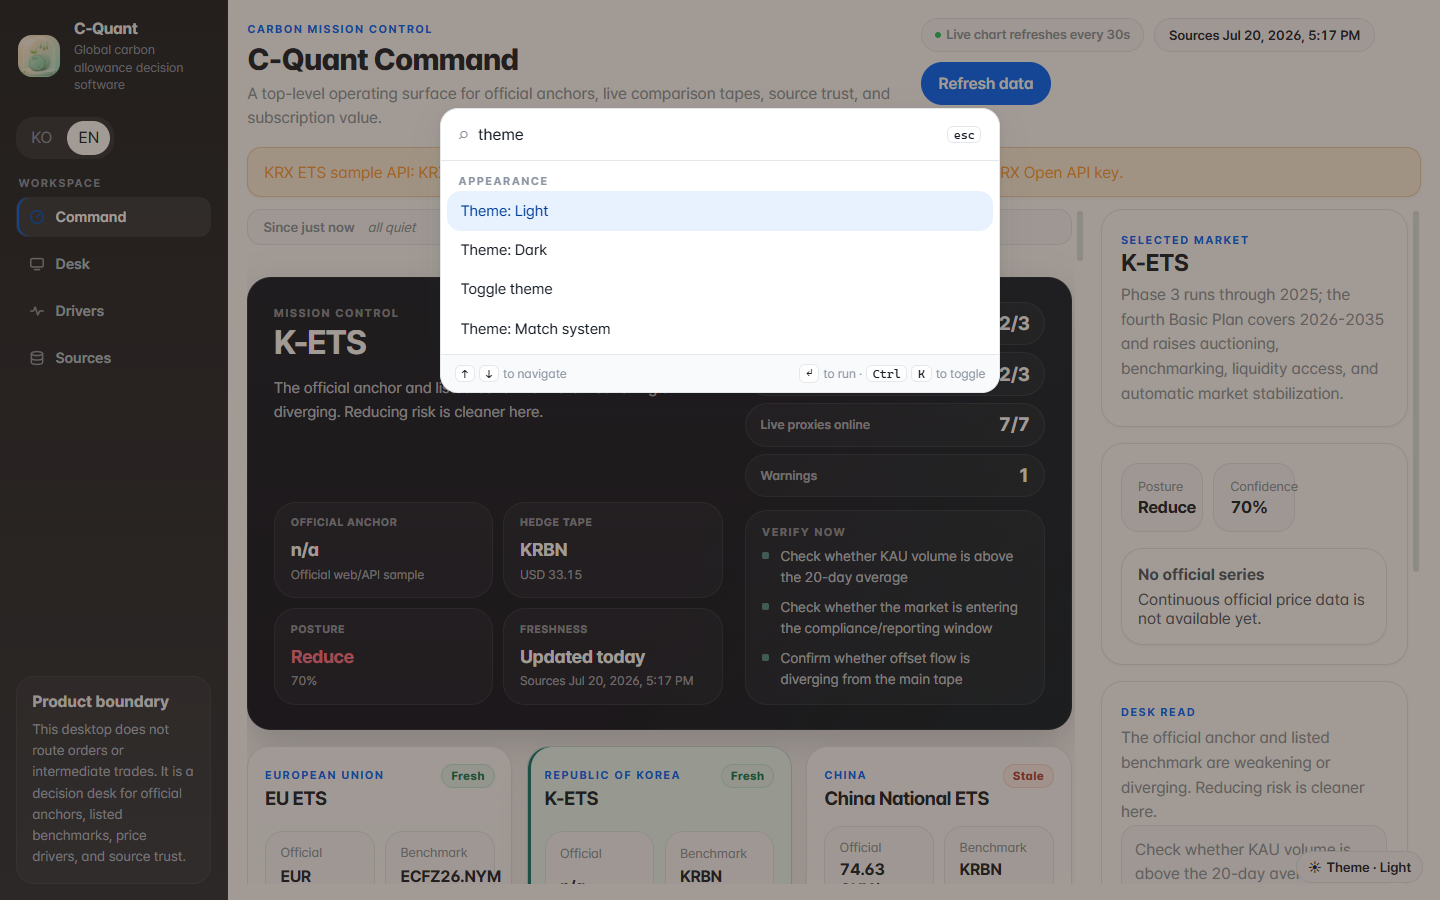
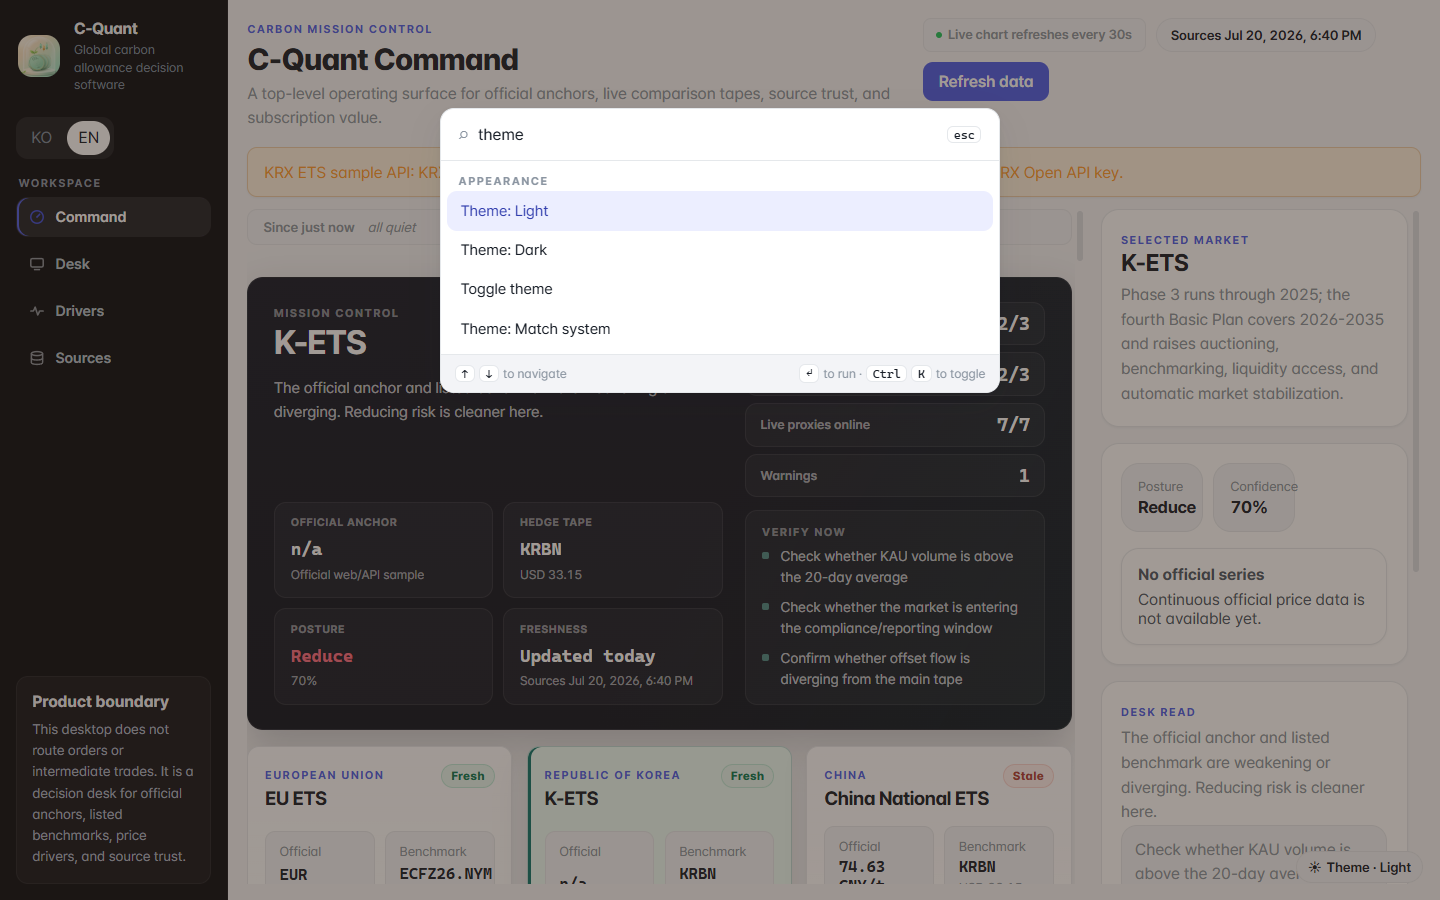
ui: dark-first identity — indigo accent, sharper geometry, mono figures
The previous pass refined the layout but kept the light-dominant look
and Toss-blue accent, so at a glance nothing changed. This one changes
the product's face while leaving the methodology untouched:

- Dark is the default theme for new installs (theme.tsx localStorage
  fallback + electron/appSettings.js DEFAULTS). Saved preferences are
  respected; light/system remain a toggle away.
- Accent: Toss blue -> indigo (#4f5ee8 light / #7c8cff dark), so the
  brand color no longer collides with buy-green / reduce-red
  semantics. Dark primary buttons use dark-ink text on the lighter
  accent (contrast fix, verified by pixel zoom).
- Geometry: radius tokens 10/14/18/22 -> 8/10/14/18; card radii
  22-28px -> 12-16px; buttons and chips pill -> rounded rect; rail
  flattened to a single surface with hairline border.
- Key figures set in the mono stack (hero stats, health tiles, market
  metrics); light canvas moved to soft gray (#f5f6f8).

No data, calibration, or decision-logic changes. Verified: type-check,
lint, format, 222+55 tests, ci:verify, build, bundle (CSS 51.4/80KB),
Playwright e2e, and light/dark/KO captures reviewed by screenshot.

diff --git a/src/styles.css b/src/styles.css
@@ -12,10 +12,10 @@
   --font-mono: "JetBrains Mono", "SF Mono", "Cascadia Mono", "Consolas", monospace;
 
   /* Toss canvas (light) — clinical white, near-zero tint */
-  --bg: #ffffff;
+  --bg: #f5f6f8;
   --panel: #ffffff;
-  --panel-muted: #f9fafb;
-  --panel-tint: #f2f4f6;
+  --panel-muted: #f3f4f7;
+  --panel-tint: #eceef2;
 
   /* Toss ink hierarchy — cool gray, high contrast */
   --text-strong: #191f28;
@@ -29,10 +29,10 @@
   --line-strong: #d1d6db;
 
   /* Toss signature blue */
-  --accent: #0064ff;
-  --accent-strong: #0050c7;
-  --accent-soft: #e8f2ff;
-  --accent-ink: #003e99;
+  --accent: #4f5ee8;
+  --accent-strong: #3f4ed8;
+  --accent-soft: #eceeff;
+  --accent-ink: #333fae;
 
   /* Semantic palette — Toss styling. Korean stock convention follows
      red = up, blue = down. We keep --green / --red as the legacy
@@ -45,8 +45,8 @@
   --yellow-soft: #fff3e0;
 
   /* Rail — Toss dark navy / charcoal */
-  --rail: #1b1f23;
-  --rail-soft: #8b95a1;
+  --rail: #0b0e14;
+  --rail-soft: #7e8a9b;
 
   /* Cool, low-tint shadows (Toss is almost flat) */
   --shadow: 0 8px 24px rgba(25, 31, 40, 0.06), 0 1px 2px rgba(25, 31, 40, 0.04);
@@ -54,10 +54,10 @@
   --shadow-lift: 0 12px 32px rgba(25, 31, 40, 0.08), 0 2px 4px rgba(25, 31, 40, 0.06);
 
   /* Geometry */
-  --radius-sm: 10px;
-  --radius-md: 14px;
-  --radius-lg: 18px;
-  --radius-xl: 22px;
+  --radius-sm: 8px;
+  --radius-md: 10px;
+  --radius-lg: 14px;
+  --radius-xl: 18px;
 
   /* Motion */
   --motion-fast: 140ms;
@@ -66,48 +66,48 @@
   --ease-out: cubic-bezier(0.22, 1, 0.36, 1);
   --ease-in-out: cubic-bezier(0.65, 0, 0.35, 1);
 
-  /* Focus ring — Toss blue */
-  --focus-ring: 0 0 0 3px rgba(0, 100, 255, 0.24);
+  /* Focus ring — indigo */
+  --focus-ring: 0 0 0 3px rgba(79, 94, 232, 0.24);
 }
 
 /* Toss dark theme. Activated via <html data-theme="dark"> from the renderer. */
 :root[data-theme="dark"] {
   color-scheme: dark;
 
-  --bg: #0e1014;
-  --panel: #17191c;
-  --panel-muted: #1c1f23;
-  --panel-tint: #21252b;
+  --bg: #0a0d13;
+  --panel: #10141c;
+  --panel-muted: #151a24;
+  --panel-tint: #1b2130;
 
-  --text-strong: #f2f4f6;
-  --text-base: #d1d6db;
-  --text-soft: #8b95a1;
-  --text-mute: #6b7684;
-  --text-on-accent: #ffffff;
+  --text-strong: #edf1f7;
+  --text-base: #b9c2cf;
+  --text-soft: #7e8a9b;
+  --text-mute: #57626f;
+  --text-on-accent: #0c1020;
 
-  --line: #2c3037;
-  --line-strong: #3a3f48;
+  --line: #202836;
+  --line-strong: #2c3646;
 
-  --accent: #3d86ff;
-  --accent-strong: #5a99ff;
-  --accent-soft: #15233d;
-  --accent-ink: #d6e6ff;
+  --accent: #7c8cff;
+  --accent-strong: #98a5ff;
+  --accent-soft: #191e36;
+  --accent-ink: #cbd3ff;
 
-  --green: #2ed670;
-  --green-soft: #14241c;
-  --red: #ff5f6d;
-  --red-soft: #2a1a1d;
-  --yellow: #ffb43d;
-  --yellow-soft: #2a1f10;
+  --green: #34d399;
+  --green-soft: #10241c;
+  --red: #fb7185;
+  --red-soft: #2a171d;
+  --yellow: #f5b04a;
+  --yellow-soft: #2a2114;
 
-  --rail: #07080a;
+  --rail: #070a10;
   --rail-soft: #6b7684;
 
-  --shadow: 0 12px 32px rgba(0, 0, 0, 0.5), 0 1px 2px rgba(0, 0, 0, 0.55);
-  --shadow-soft: 0 1px 2px rgba(0, 0, 0, 0.5);
-  --shadow-lift: 0 18px 40px rgba(0, 0, 0, 0.6), 0 2px 4px rgba(0, 0, 0, 0.55);
+  --shadow: 0 12px 32px rgba(0, 0, 0, 0.45), 0 1px 2px rgba(0, 0, 0, 0.5);
+  --shadow-soft: 0 1px 2px rgba(0, 0, 0, 0.45);
+  --shadow-lift: 0 18px 40px rgba(0, 0, 0, 0.55), 0 2px 4px rgba(0, 0, 0, 0.5);
 
-  --focus-ring: 0 0 0 3px rgba(61, 134, 255, 0.32);
+  --focus-ring: 0 0 0 3px rgba(124, 140, 255, 0.32);
 }
 
 /* When the user has not picked a theme yet, follow the OS preference. */
@@ -115,40 +115,40 @@
   :root:not([data-theme]) {
     color-scheme: dark;
 
-    --bg: #0e1014;
-    --panel: #17191c;
-    --panel-muted: #1c1f23;
-    --panel-tint: #21252b;
+    --bg: #0a0d13;
+    --panel: #10141c;
+    --panel-muted: #151a24;
+    --panel-tint: #1b2130;
 
-    --text-strong: #f2f4f6;
-    --text-base: #d1d6db;
-    --text-soft: #8b95a1;
-    --text-mute: #6b7684;
-    --text-on-accent: #ffffff;
+    --text-strong: #edf1f7;
+    --text-base: #b9c2cf;
+    --text-soft: #7e8a9b;
+    --text-mute: #57626f;
+    --text-on-accent: #0c1020;
 
-    --line: #2c3037;
-    --line-strong: #3a3f48;
+    --line: #202836;
+    --line-strong: #2c3646;
 
-    --accent: #3d86ff;
-    --accent-strong: #5a99ff;
-    --accent-soft: #15233d;
-    --accent-ink: #d6e6ff;
+    --accent: #7c8cff;
+    --accent-strong: #98a5ff;
+    --accent-soft: #191e36;
+    --accent-ink: #cbd3ff;
 
-    --green: #2ed670;
-    --green-soft: #14241c;
-    --red: #ff5f6d;
-    --red-soft: #2a1a1d;
-    --yellow: #ffb43d;
-    --yellow-soft: #2a1f10;
+    --green: #34d399;
+    --green-soft: #10241c;
+    --red: #fb7185;
+    --red-soft: #2a171d;
+    --yellow: #f5b04a;
+    --yellow-soft: #2a2114;
 
-    --rail: #07080a;
+    --rail: #070a10;
     --rail-soft: #6b7684;
 
-    --shadow: 0 12px 32px rgba(0, 0, 0, 0.5), 0 1px 2px rgba(0, 0, 0, 0.55);
-    --shadow-soft: 0 1px 2px rgba(0, 0, 0, 0.5);
-    --shadow-lift: 0 18px 40px rgba(0, 0, 0, 0.6), 0 2px 4px rgba(0, 0, 0, 0.55);
+    --shadow: 0 12px 32px rgba(0, 0, 0, 0.45), 0 1px 2px rgba(0, 0, 0, 0.5);
+    --shadow-soft: 0 1px 2px rgba(0, 0, 0, 0.45);
+    --shadow-lift: 0 18px 40px rgba(0, 0, 0, 0.55), 0 2px 4px rgba(0, 0, 0, 0.5);
 
-    --focus-ring: 0 0 0 3px rgba(61, 134, 255, 0.32);
+    --focus-ring: 0 0 0 3px rgba(124, 140, 255, 0.32);
   }
 }
 
@@ -230,22 +230,17 @@ textarea::placeholder {
   flex-direction: column;
   gap: 1.1rem;
   padding: 1.1rem 1rem 1rem;
-  background: linear-gradient(180deg, #1b1f23 0%, #2a2f37 100%);
+  background: var(--rail);
   color: #f2f4f6;
-  border-right: 1px solid rgba(255, 255, 255, 0.04);
+  border-right: 1px solid rgba(255, 255, 255, 0.05);
   overflow-y: auto;
-}
-
-:root[data-theme="dark"] .app-rail {
-  background: linear-gradient(180deg, #07080a 0%, #11141a 100%);
-  border-right: 1px solid rgba(255, 255, 255, 0.03);
 }
 
 .rail-brand,
 .rail-note,
 .rail-button,
 .rail-locale {
-  border-radius: 18px;
+  border-radius: 12px;
 }
 
 .rail-brand {
@@ -449,7 +444,7 @@ textarea::placeholder {
   display: inline-flex;
   align-items: center;
   gap: 0.35rem;
-  border-radius: 999px;
+  border-radius: 8px;
   font-size: 0.88rem;
   font-weight: 700;
 }
@@ -477,8 +472,8 @@ textarea::placeholder {
   display: inline-flex;
   align-items: center;
   justify-content: center;
-  padding: 0.74rem 1.1rem;
-  border-radius: 999px;
+  padding: 0.62rem 1rem;
+  border-radius: 10px;
   font-weight: 600;
   letter-spacing: -0.005em;
   transition:
@@ -726,7 +721,7 @@ textarea::placeholder {
   grid-template-columns: minmax(0, 1.55fr) minmax(300px, 0.95fr);
   gap: 1.4rem;
   padding: 1.5rem 1.6rem;
-  border-radius: 24px;
+  border-radius: 16px;
   border: 1px solid rgba(255, 255, 255, 0.07);
   background:
     linear-gradient(
@@ -734,9 +729,15 @@ textarea::placeholder {
       transparent 55%,
       color-mix(in srgb, var(--command-accent, var(--accent)) 10%, transparent) 100%
     ),
-    linear-gradient(180deg, #131a28 0%, #0d1320 100%);
+    linear-gradient(180deg, #151c2b 0%, #0f1522 100%);
   box-shadow: 0 16px 40px rgba(10, 15, 26, 0.2);
   color: #f4f7fc;
+}
+
+.command-stat strong,
+.command-health-tile strong,
+.command-market-metrics strong {
+  font-family: var(--font-mono);
 }
 
 .command-hero-main,
@@ -747,7 +748,7 @@ textarea::placeholder {
 .command-market-card,
 .principle-card,
 .registry-card {
-  border-radius: 22px;
+  border-radius: 12px;
 }
 
 .command-hero-main {
@@ -995,8 +996,8 @@ textarea::placeholder {
 .command-market-metrics div {
   display: grid;
   gap: 0.22rem;
-  padding: 0.85rem 0.9rem;
-  border-radius: 18px;
+  padding: 0.75rem 0.85rem;
+  border-radius: 10px;
   border: 1px solid var(--line);
   background: var(--panel-muted);
 }

diff --git a/src/lib/theme.tsx b/src/lib/theme.tsx
@@ -82,9 +82,11 @@ function applyThemeToDocument(theme: ThemePreference, reducedMotion: boolean) {
 export function ThemeProvider({ children }: { children: ReactNode }) {
   // Initial values come from localStorage so the first paint is correct;
   // they're then reconciled with the persisted Electron settings.
+  // Dark is the default desk experience; "system"/"light" remain one
+  // toggle away and any previously saved preference wins.
   const [theme, setThemeState] = useState<ThemePreference>(() => {
-    const raw = readLocalString(THEME_STORAGE_KEY, "system");
-    return raw === "light" || raw === "dark" ? raw : "system";
+    const raw = readLocalString(THEME_STORAGE_KEY, "dark");
+    return raw === "light" || raw === "system" ? raw : "dark";
   });
   const [locale, setLocaleState] = useState<AppLocale>(() => {
     const raw = readLocalString(LOCALE_STORAGE_KEY, readSystemLocale());

diff --git a/electron/appSettings.js b/electron/appSettings.js
@@ -15,7 +15,7 @@ const ALLOWED_THEMES = new Set(["light", "dark", "system"]);
 const ALLOWED_LOCALES = new Set(["ko", "en"]);
 
 const DEFAULTS = {
-  theme: "system",
+  theme: "dark",
   locale: "ko",
   reducedMotion: false,
   surface: "command",

diff --git a/CHANGELOG.md b/CHANGELOG.md
@@ -4,6 +4,22 @@ All notable changes to C-Quant. We follow [Keep a Changelog](https://keepachange
 
 ## [Unreleased]
 
+### Changed — dark-first visual identity
+
+- Dark is now the default theme for new installs (renderer and
+  Electron settings defaults; saved preferences are untouched, and
+  light/system stay one toggle away).
+- Brand accent moved from Toss blue to indigo (#4f5ee8 light /
+  #7c8cff dark) so the accent no longer competes with the buy/reduce
+  semantic green/red. Dark-theme primary buttons flip to dark-ink text
+  for contrast on the lighter accent.
+- Sharper geometry across the app: radius tokens 10/14/18/22 →
+  8/10/14/18, hardcoded card radii 22-28px → 12-16px, buttons and
+  meta chips from pills to rounded rectangles.
+- Key figures (hero stats, health tiles, market metrics) render in the
+  mono stack for a terminal read; light canvas moved to a soft gray so
+  panels separate without heavy shadows.
+
 ### Changed — Command surface & shell redesign
 
 - Command hero rebuilt: flat deep-carbon surface (murky gradient and

diff --git a/README.md b/README.md
@@ -17,7 +17,7 @@ C-Quant pulls official data from the EU ETS, Korea's K-ETS, and China's national
 It is decision support, not a trading tool. It doesn't place orders, hold assets, or give individualized trade instructions.
 
 <p align="center">
-  <img src="docs/images/shot-command-light.png" alt="Command surface" width="100%"/>
+  <img src="docs/images/shot-command-dark.png" alt="Command surface" width="100%"/>
 </p>
 
 ## How a session goes
